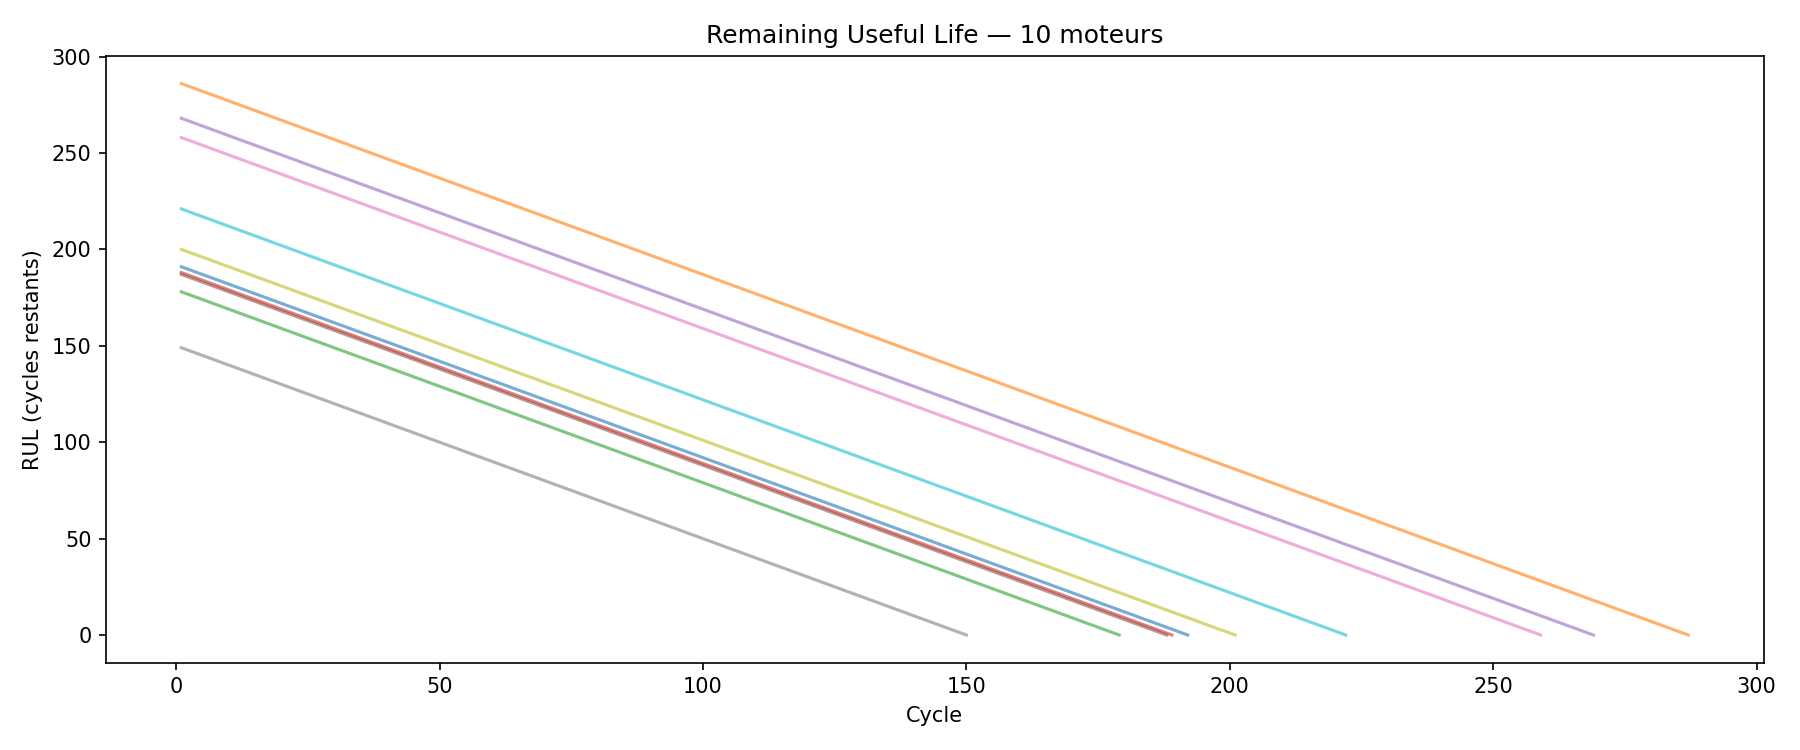
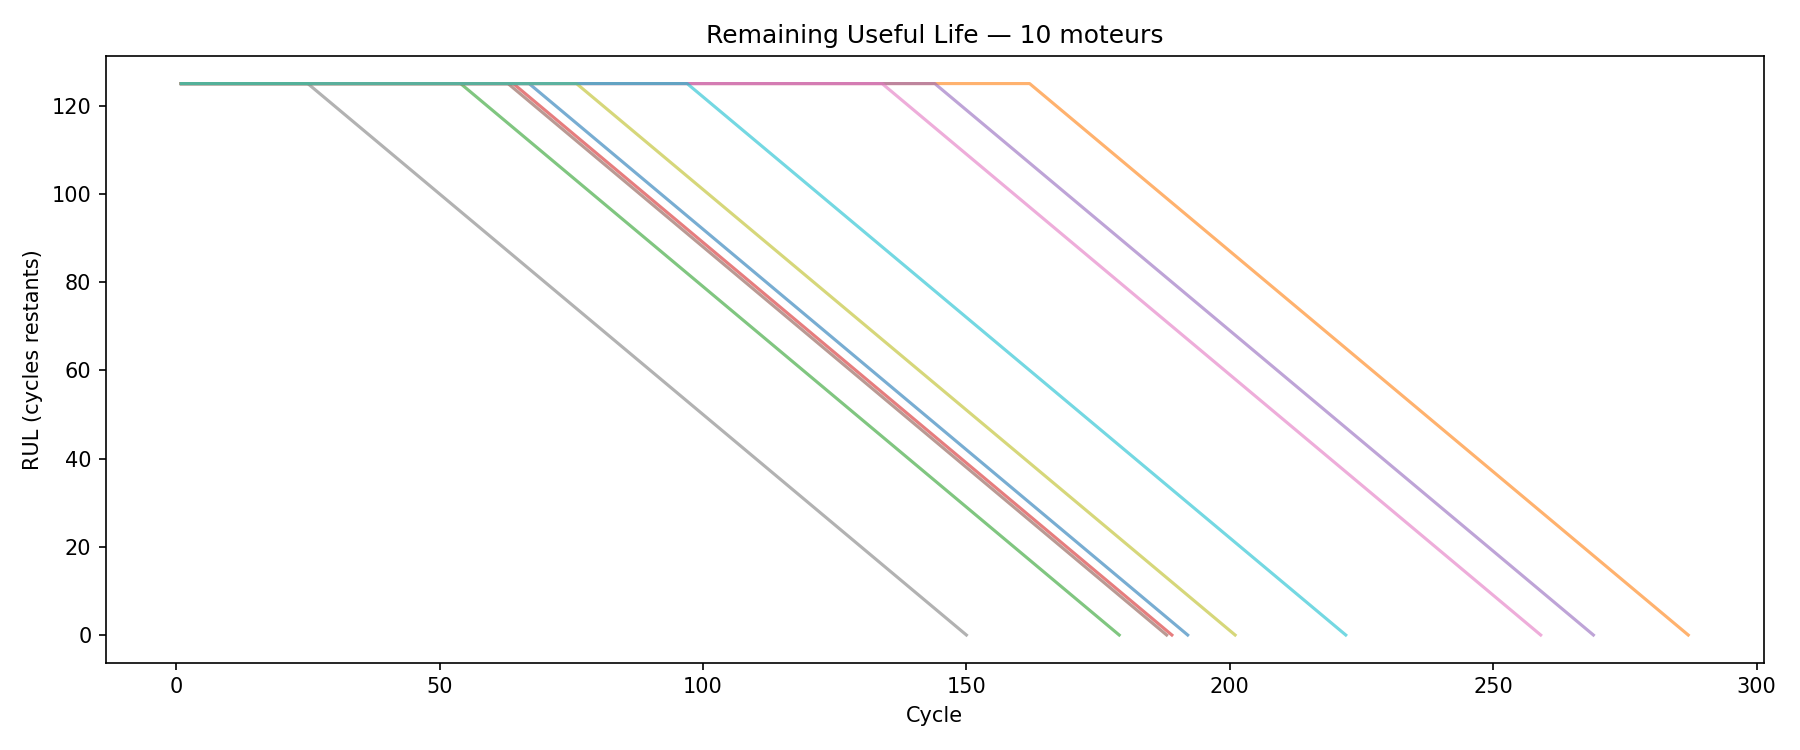
Amélioration graphiques - échantillon 200 points

diff --git a/notebooks/maintenance_predictive.py b/notebooks/maintenance_predictive.py
@@ -15,6 +15,7 @@ max_cycles = train.groupby('unit')['cycle'].max().reset_index()
 max_cycles.columns = ['unit', 'max_cycle']
 train = train.merge(max_cycles, on='unit')
 train['RUL'] = train['max_cycle'] - train['cycle']
+train['RUL'] = train['RUL'].clip(upper=125)
 train.drop(columns=['max_cycle'], inplace=True)
 
 # Vérification
@@ -33,7 +34,8 @@ plt.ylabel('RUL (cycles restants)')
 plt.title('Remaining Useful Life — 10 moteurs')
 plt.tight_layout()
 plt.savefig('images/RUL_par_moteur.png', dpi=150)
-plt.show()
+# plt.show()
+plt.close()
 print("Graphique sauvegardé dans images/")
 
 from sklearn.ensemble import RandomForestRegressor
@@ -96,5 +98,47 @@ plt.title('Prédictions vs Réalité — Random Forest')
 plt.legend()
 plt.tight_layout()
 plt.savefig('images/predictions_vs_realite.png', dpi=150)
-plt.show()
+# plt.show()
+plt.close()
 print("Graphique sauvegardé !")
+
+from xgboost import XGBRegressor
+
+# Modèle XGBoost
+xgb_model = XGBRegressor(n_estimators=100, random_state=42)
+xgb_model.fit(X_train, y_train)
+
+# Évaluation XGBoost
+y_pred_xgb = xgb_model.predict(X_test)
+mae_xgb = mean_absolute_error(y_test, y_pred_xgb)
+rmse_xgb = np.sqrt(mean_squared_error(y_test, y_pred_xgb))
+
+print(f"\nRésultats XGBoost :")
+print(f"MAE  : {mae_xgb:.2f} cycles")
+print(f"RMSE : {rmse_xgb:.2f} cycles")
+
+print(f"\nComparaison :")
+print(f"Random Forest — MAE : {mae:.2f} | RMSE : {rmse:.2f}")
+print(f"XGBoost       — MAE : {mae_xgb:.2f} | RMSE : {rmse_xgb:.2f}")
+
+# Graphique comparaison Random Forest vs XGBoost
+fig, axes = plt.subplots(1, 2, figsize=(14, 5))
+
+# Random Forest
+idx = np.random.choice(len(y_test), 200, replace=False)
+axes[0].scatter(y_test.iloc[idx], y_pred[idx], alpha=0.6, color='steelblue')
+axes[0].plot([0, 125], [0, 125], 'r--')
+axes[0].set_xlabel('RUL réel (cycles)')
+axes[0].set_ylabel('RUL prédit (cycles)')
+axes[0].set_title(f'Random Forest — MAE : {mae:.2f}')
+
+# XGBoost
+axes[1].scatter(y_test.iloc[idx], y_pred_xgb[idx], alpha=0.6, color='darkorange')
+axes[1].plot([0, 125], [0, 125], 'r--')
+axes[1].set_xlabel('RUL réel (cycles)')
+axes[1].set_ylabel('RUL prédit (cycles)')
+axes[1].set_title(f'XGBoost — MAE : {mae_xgb:.2f}')
+
+plt.tight_layout()
+plt.savefig('images/comparaison_modeles.png', dpi=150)
+print("Graphique comparaison sauvegardé !")
